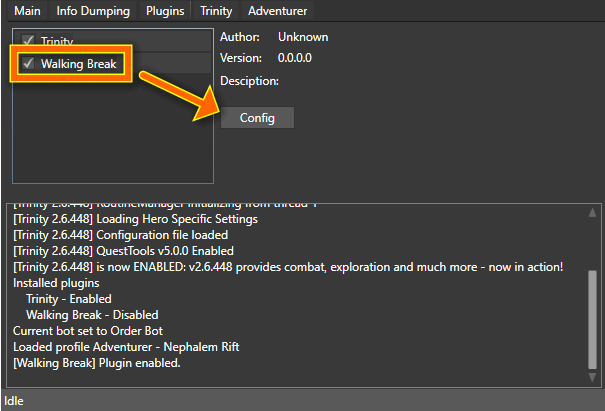
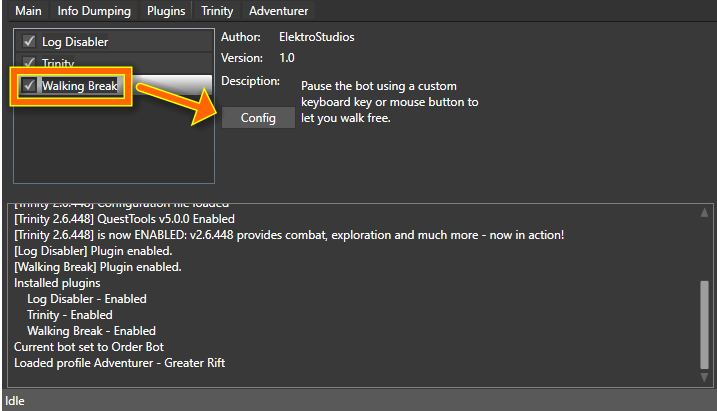
v1.1

Changed region(s): [[0.0, 0.4964, 1.0, 0.9343], [0.0, 0.0, 0.6843, 0.4672], [0.0, 0.9635, 0.0595, 0.9927]]

diff --git a/src/Plugins/WalkingBreak/Plugin.cs b/src/Plugins/WalkingBreak/Plugin.cs
@@ -1,6 +1,6 @@
 // ***********************************************************************
 // Author   : ElektroStudios
-// Modified : 10-April-2019
+// Modified : 13-April-2019
 // ***********************************************************************
 
 #region  Usings 
@@ -21,8 +21,8 @@ using System.Windows.Markup;
 using log4net;
 
 using Zeta.Bot;
-using Zeta.Common.Plugins;
 using Zeta.Common;
+using Zeta.Common.Plugins;
 
 using WalkingBreak.Win32;
 
@@ -38,6 +38,17 @@ namespace WalkingBreak {
     /// </remarks>
     /// ----------------------------------------------------------------------------------------------------
     public sealed class Plugin : IPlugin {
+
+#region  Public Fields 
+
+        /// ----------------------------------------------------------------------------------------------------
+        /// <summary>
+        /// The virtual key used to pause the bot.
+        /// </summary>
+        /// ----------------------------------------------------------------------------------------------------
+        public static VirtualKeys key = VirtualKeys.MouseButtonMiddle;
+
+#endregion
 
 #region  Private Fields 
 
@@ -57,10 +68,10 @@ namespace WalkingBreak {
 
         /// ----------------------------------------------------------------------------------------------------
         /// <summary>
-        /// The virtual key used to pause the bot.
+        /// Flag to determine whether or not the plugin is enabled.
         /// </summary>
         /// ----------------------------------------------------------------------------------------------------
-        public static VirtualKeys key = VirtualKeys.MouseButtonMiddle;
+        private bool isPluginEnabled = false;
 
 #endregion
 
@@ -95,7 +106,7 @@ namespace WalkingBreak {
         /// ----------------------------------------------------------------------------------------------------
         public Version Version {
             get {
-                return new Version(1, 0);
+                return new Version(1, 1);
             }
         }
 
@@ -150,9 +161,11 @@ namespace WalkingBreak {
         /// </summary>
         /// ----------------------------------------------------------------------------------------------------
         void IPlugin.OnPulse() {
-            bool PauseRequested = this.PauseRequested();
-            if ((PauseRequested && !BotMain.IsPaused)) {
-                BotMain.PauseWhile(() => this.PauseRequested());
+            if (this.isPluginEnabled) {
+                bool PauseRequested = this.PauseRequested();
+                if ((PauseRequested && !BotMain.IsPaused)) {
+                    BotMain.PauseWhile(() => this.PauseRequested());
+                }            
             }
         }
 
@@ -163,6 +176,7 @@ namespace WalkingBreak {
         /// ----------------------------------------------------------------------------------------------------
         void IPlugin.OnEnabled() {
             Plugin.key = Plugin.Deserialize();
+            this.isPluginEnabled = true;
             this.log.Info("[Walking Break] Plugin enabled.");
         }
 
@@ -173,6 +187,7 @@ namespace WalkingBreak {
         /// ----------------------------------------------------------------------------------------------------
         void IPlugin.OnDisabled() {
             this.isBotPaused = false;
+            this.isPluginEnabled = false;
             this.log.Info("[Walking Break] Plugin disabled.");
         }
 
@@ -183,6 +198,7 @@ namespace WalkingBreak {
         /// ----------------------------------------------------------------------------------------------------
         void IPlugin.OnShutdown() {
             this.isBotPaused = false;
+            this.isPluginEnabled = false;
         }
 
 #endregion
